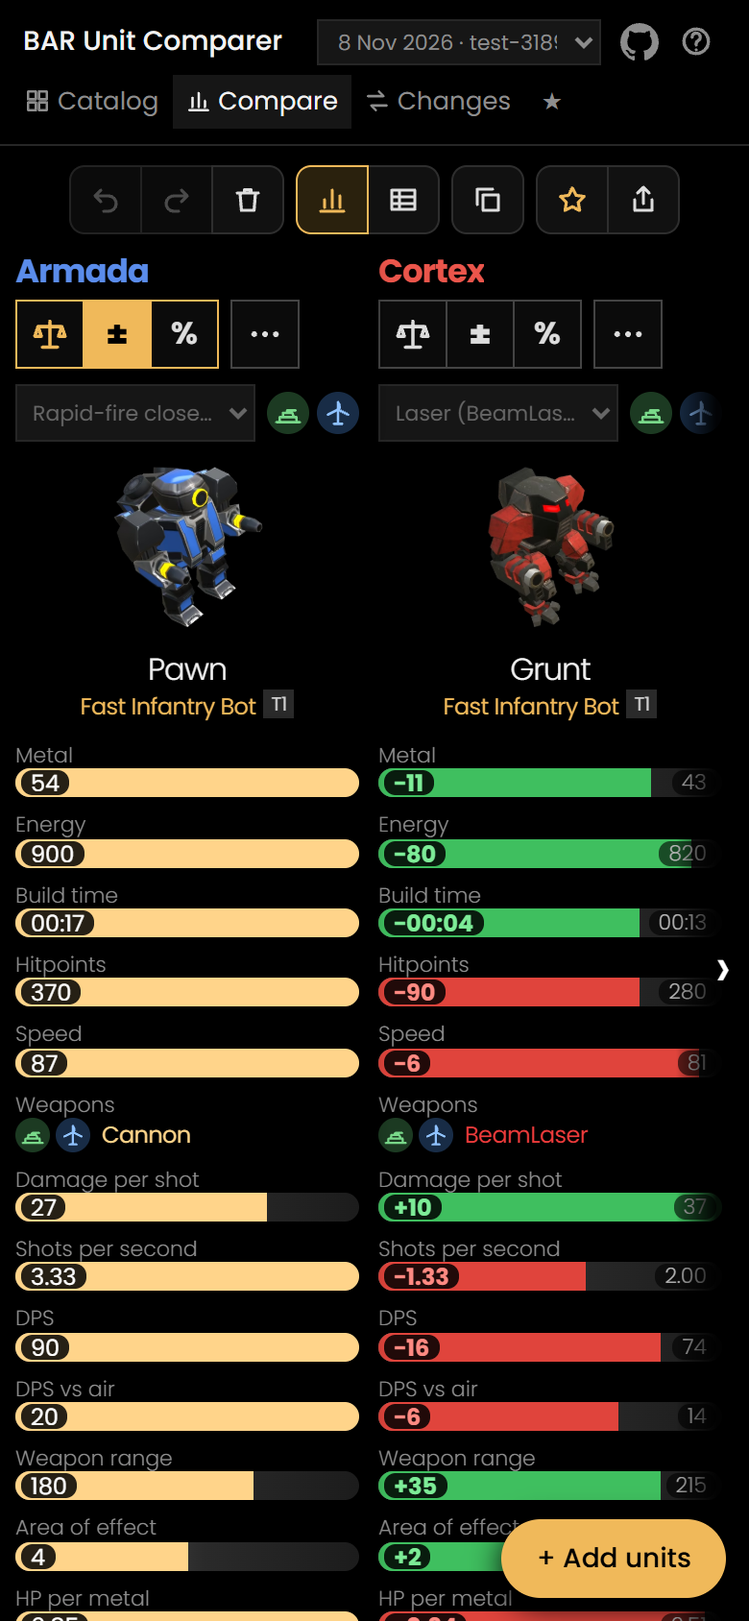
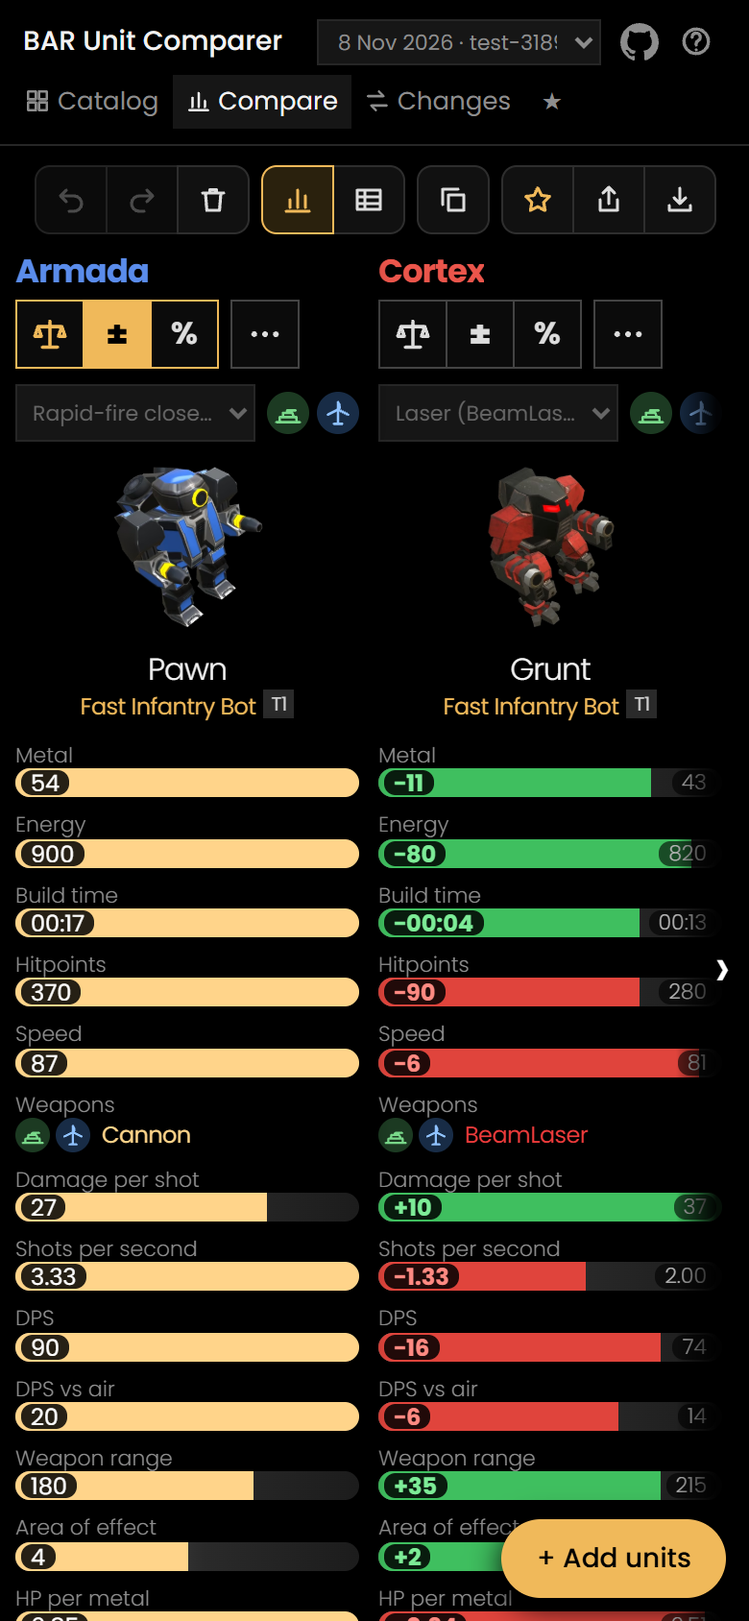
Export as CSV (in the language of the browser) or Excel; the compact table again in a wide window, two lines per value only on a phone
Export (right of Share): a dialog with CSV and Excel; the units shown with their values as in the table, numbers as numbers, with a Ref the differences
below. The CSV follows the browser language (German: 16,5 and semicolons); the .xlsx is written in the page without a library. Help, README, documents,
screenshots and the smoke test updated.

Claude-Session: https://claude.ai/code/session_01QeCYKoSgqsAqdpEWxxymXc

diff --git a/website/app.js b/website/app.js
@@ -101,6 +101,7 @@ ICONS.filter = svgIcon('M2 3h12L9.5 8.3V13l-3-1.4V8.3z');                       
 ICONS.star = svgIcon('M8 1.8l1.9 3.9 4.3.6-3.1 3 .7 4.3L8 11.6l-3.8 2 .7-4.3-3.1-3 4.3-.6z');  // a star: favorite
 ICONS.trash = svgIcon('M2.5 4.5h11M6.3 4.5V2.8h3.4v1.7M4 4.5l.7 9h6.6l.7-9');             // a bin: remove all units
 ICONS.share = svgIcon('M8 10V2M5 4.5l3-3 3 3M3.5 8v5.5h9V8');                            // an arrow out of a box: share the link
+ICONS.export = svgIcon('M8 2v8M5 7l3 3 3-3M2.5 11v2.5h11V11');                           // an arrow down into a tray: export the values as a file
 const toolButton = (kind, action, tip, on, enabled) => `<button class="tool ${kind}${on ? ' active' : ''}" data-a="${action}" title="${tip}" aria-label="${tip}" aria-pressed="${!!on}" ${enabled ? '' : 'disabled'}>${ICONS[kind]}</button>`;
 const isNarrow = () => window.innerWidth <= 900;
 const isPhone = () => window.innerWidth <= 600;   // a phone: the tools of a column are in a menu, the toolbar is one line
@@ -600,6 +601,7 @@ function renderHelp() {
       ['Undo / Redo', 'take back or repeat a change of the columns or of the game version (Ctrl+Z, Ctrl+Y; also in the catalog). The number on them: how many steps there are.'],
       ['Clear', '(right of Undo and Redo) starts again: removes all units and the Undo and Redo steps. It asks first.'],
       [`${ICONS.share} Share`, 'copies the link of the comparison, to send it to someone (on a phone: opens the share menu).'],
+      [`${ICONS.export} Export`, 'saves the units shown with their values as a file, CSV or Excel (.xlsx): one row per value, one column per unit, numbers as numbers (with a Ref also the differences to it), to work with them in a spreadsheet.'],
       ['The name of a value', 'click it (Metal, Hitpoints, ...) to sort the columns by this value, the best first; again: the worst first.'],
       ['&#8942;&#8942;', 'drag it to move a column (on a phone: Move left / Move right in the menu of the column).'],
       ['&#8249; &#8250;', '(at the edges) more columns are hidden there: a click scrolls to the next one.'],
@@ -712,7 +714,7 @@ function renderCompare() {
   renderOverlay();
 }
 
-// the buttons above the columns, in groups: history (Undo, Clear, Redo), the view (graphic or table), + Scav, keep (Favorite, Share).
+// the buttons above the columns, in groups: history (Undo, Clear, Redo), the view (graphic or table), + Scav, keep (Favorite, Share, Export).
 // Every button has an icon; on a phone only the icons are shown (one line). Changed units only is in the unit selection: it changes only that list
 function toolbarHtml() {
   const fav = currentFavorite() >= 0, any = state.columns.length ? '' : 'disabled';
@@ -730,7 +732,8 @@ function toolbarHtml() {
     ${group(view(false, ICONS.graphic, 'Graphic', 'Graphic view: pictures and bars'), view(true, ICONS.table, 'Table', 'Compact table: one row per value, one column per unit'))}
     ${group(btn('scav', ICONS.scav, '+ Scav', 'Scavengers: show the Scavenger copy of every unit right next to it (stronger: about 10 % more cost, 25 % more hitpoints). Press again to take them out.', { on: state.scav, cls: 'tg' }))}
     ${group(btn('fav-save', ICONS.star, fav ? 'Favorite' : 'Save', fav ? 'This selection is a favorite: press to remove it' : 'Save this selection of units as a favorite (list: Favorites at the top)', { on: fav, off: !!any, cls: 'fav-star tg' }),
-      btn('share', ICONS.share, 'Share', 'Share this comparison: copies its link (on a phone: the share menu)', { off: !!any, cls: 'share' }))}
+      btn('share', ICONS.share, 'Share', 'Share this comparison: copies its link (on a phone: the share menu)', { off: !!any, cls: 'share' }),
+      btn('export', ICONS.export, 'Export', 'Export the units shown with their values: a CSV or Excel file', { off: !!any }))}
     </div>`;
 }
 
@@ -962,12 +965,15 @@ function tableHtml(columns, stats, max, reference) {
     const ref = referenceFor(c, reference);
     return `<td data-col="${c.id}" class="num${rc}${verdictOf(s, v, ref)}${v === max[s.key] ? ' top' : ''}${changed}">${valueText(s, v, ref)}${absText(s, v, ref)}</td>`;
   };
-  // two lines per value: its name over the whole width (it stays at the left edge while the columns are scrolled), the values below it; the column of the names
-  // (.t-corner and the empty .t-nil of each row) has no width, so the units get the room
-  const span = columns.length + 1 + (reference ? 1 : 0);
-  const row = s => `<tr class="t-lab"><th colspan="${span}" class="${s.differs ? 'changed' : ''}" title="${esc(s.tip)}"${sortAttr(s)}><span>${s.label}${sortMark(s)}</span></th></tr>`
-    + `<tr class="t-vals"><th class="t-nil"></th>${columns.map(c => cell(s, c)).join('')}</tr>`;
-  return `<table class="cmp-table two-line"><thead><tr><th class="t-corner"></th>${columns.map(head).join('')}${reference ? '<th class="t-pad"></th>' : ''}</tr></thead>
+  // a wide window: the names of the values in a column at the left, one line per value (compact). A phone: two lines per value, its name over the whole width
+  // (it stays at the left edge while the columns are scrolled), the values below it; the column of the names (.t-corner and the empty .t-nil of each row) has
+  // no width, so the units get the room
+  const two = isPhone(), span = columns.length + 1 + (reference ? 1 : 0);
+  const row = s => two
+    ? `<tr class="t-lab"><th colspan="${span}" class="${s.differs ? 'changed' : ''}" title="${esc(s.tip)}"${sortAttr(s)}><span>${s.label}${sortMark(s)}</span></th></tr>`
+      + `<tr class="t-vals"><th class="t-nil"></th>${columns.map(c => cell(s, c)).join('')}</tr>`
+    : `<tr><th class="${s.differs ? 'changed' : ''}" title="${esc(s.tip)}"${sortAttr(s)}>${s.label}${sortMark(s)}</th>${columns.map(c => cell(s, c)).join('')}</tr>`;
+  return `<table class="cmp-table${two ? ' two-line' : ''}"><thead><tr><th class="t-corner"></th>${columns.map(head).join('')}${reference ? '<th class="t-pad"></th>' : ''}</tr></thead>
     <tbody>${stats.map(row).join('')}</tbody></table>`;
 }
 
@@ -1192,9 +1198,105 @@ function renderOverlay() {
   if (!c) state.menu = null;
   if (state.detail && !pickUnit(state.detail)) state.detail = null;
   if (state.ask && state.page !== 'compare') state.ask = null;
-  overlay.innerHTML = state.ask ? askHtml() : state.detail ? detailHtml(state.detail) : c ? menuHtml(c) : '';
-  if (state.ask) overlay.querySelector('[data-a="clear-yes"]').focus();
+  overlay.innerHTML = state.ask === 'export' ? exportHtml() : state.ask ? askHtml() : state.detail ? detailHtml(state.detail) : c ? menuHtml(c) : '';
+  if (state.ask) overlay.querySelector('[data-a="clear-yes"], [data-a="export-xlsx"]').focus();
   document.body.classList.toggle('modal', overlay.innerHTML !== '');
+}
+// Export: the units shown with their values as a file, CSV or Excel (.xlsx), laid out as the table: one row per value, one column per unit, the heads of the
+// columns in the first rows. Numbers as numbers (the build time in seconds), not as the text on the page; with a Ref the differences follow in a block below
+function exportRows() {
+  const columns = shown.length ? shown : displayColumns(), reference = columns.find(c => c.ref);
+  const stats = STATS.filter(s => columns.some(c => s.key === 'weapons' ? unitOf(c).weapons.length : unitOf(c)[s.key]));
+  const num = v => Math.round(v * 100) / 100;
+  const label = s => s.key === 'buildTime' ? 'Build time (s)' : s.label;
+  const weaponOf = c => { const list = (unitsOf(c.version || state.versionDir)[c.unit] || {}).weaponList || [], on = list.find(w => w.id === c.weapon);
+    return on ? weaponLabel(on, list) : list.length > 1 ? `All weapons (${list.length})` : list.length ? weaponLabel(list[0]) : 'No weapons'; };
+  const rows = [['Unit', ...columns.map(c => unitOf(c).name)], ['Name', ...columns.map(c => c.unit)], ['Faction', ...columns.map(c => c.scavOf ? 'Scavengers' : factionName(c.faction))],
+    ['Tier', ...columns.map(c => `T${unitOf(c).tech}`)], ['Description', ...columns.map(c => unitOf(c).description)]];
+  if (state.versions.length > 1) rows.push(['Game version', ...columns.map(c => { const v = versionOf(stateVersion(c) || c.version || state.versionDir); return v ? versionLabel(v) : ''; })]);
+  rows.push(['Weapon', ...columns.map(weaponOf)]);
+  if (reference) rows.push(['Reference', ...columns.map(c => c.ref ? 'Ref' : '')]);
+  const head = rows.length;
+  for (const s of stats) rows.push([label(s), ...columns.map(c => { const u = unitOf(c); return s.key === 'weapons' ? u.weapons.join(', ') : u[s.key] ? num(u[s.key]) : ''; })]);
+  if (reference) {   // the differences to the Ref, as the page shows them: as they are (±) or in percent (%)
+    const r = unitOf(reference);
+    rows.push([], [`Difference to ${r.name}${state.refPct ? ' (%)' : ''}`, ...columns.map(c => unitOf(c).name)]);
+    for (const s of stats) if (s.key !== 'weapons' && r[s.key]) rows.push([label(s), ...columns.map(c => { const v = unitOf(c)[s.key];
+      return c.ref || !v ? '' : state.refPct ? Math.round((v - r[s.key]) / Math.abs(r[s.key]) * 1000) / 10 : num(v - r[s.key]); })]);
+  }
+  return { rows, head, columns };
+}
+const exportName = (columns, ext) => `bar-compare-${columns.slice(0, 6).map(c => c.unit).join('-')}${columns.length > 6 ? '-more' : ''}.${ext}`;
+function download(name, blob) {
+  const a = document.createElement('a');
+  a.href = URL.createObjectURL(blob); a.download = name;
+  document.body.appendChild(a); a.click(); a.remove();
+  setTimeout(() => URL.revokeObjectURL(a.href), 1000);
+}
+// CSV in the language of the browser, as a spreadsheet there reads it: with a decimal comma (German and others) the numbers have a comma and the cells are
+// separated by semicolons, else a point and commas; no thousands separators; text in quotes where needed, UTF-8 with a BOM so that Excel reads the names right
+const decimalComma = (locale = navigator.language) => { try { return (1.5).toLocaleString(locale).includes(','); } catch { return false; } };
+function csvOf(rows, locale = navigator.language) {
+  const comma = decimalComma(locale), sep = comma ? ';' : ',', quote = new RegExp(`["${sep}\r\n]`);
+  const cell = v => typeof v === 'number' ? (comma ? String(v).replace('.', ',') : String(v)) : quote.test(v ?? '') ? `"${String(v).replace(/"/g, '""')}"` : String(v ?? '');
+  return '' + rows.map(r => r.map(cell).join(sep)).join('\r\n') + '\r\n';
+}
+// Excel: a small .xlsx written here (a zip without compression): one sheet, the first column and the heads of the columns stay in view, the names bold
+const CRC = (() => { const t = new Uint32Array(256); for (let n = 0; n < 256; n++) { let c = n; for (let k = 0; k < 8; k++) c = c & 1 ? 0xedb88320 ^ (c >>> 1) : c >>> 1; t[n] = c >>> 0; } return t; })();
+const crc32 = b => { let c = 0xffffffff; for (const x of b) c = CRC[(c ^ x) & 255] ^ (c >>> 8); return (c ^ 0xffffffff) >>> 0; };
+const putAll = (view, list) => list.forEach(([o, v, s]) => s === 4 ? view.setUint32(o, v, true) : view.setUint16(o, v, true));
+function zipOf(files) {   // [[name, text]]: a zip, stored
+  const enc = new TextEncoder(), parts = [], dir = [];
+  let at = 0;
+  for (const [name, text] of files) {
+    const n = enc.encode(name), d = enc.encode(text), crc = crc32(d);
+    const h = new DataView(new ArrayBuffer(30));
+    putAll(h, [[0, 0x04034b50, 4], [4, 20, 2], [6, 0x0800, 2], [8, 0, 2], [10, 0, 2], [12, 0x21, 2], [14, crc, 4], [18, d.length, 4], [22, d.length, 4], [26, n.length, 2], [28, 0, 2]]);
+    const c = new DataView(new ArrayBuffer(46));
+    putAll(c, [[0, 0x02014b50, 4], [4, 20, 2], [6, 20, 2], [8, 0x0800, 2], [10, 0, 2], [12, 0, 2], [14, 0x21, 2], [16, crc, 4], [20, d.length, 4], [24, d.length, 4], [28, n.length, 2],
+      [30, 0, 2], [32, 0, 2], [34, 0, 2], [36, 0, 2], [38, 0, 4], [42, at, 4]]);
+    parts.push(h, n, d); dir.push(c, n);
+    at += 30 + n.length + d.length;
+  }
+  const size = dir.reduce((a, x) => a + x.byteLength, 0), e = new DataView(new ArrayBuffer(22));
+  putAll(e, [[0, 0x06054b50, 4], [8, files.length, 2], [10, files.length, 2], [12, size, 4], [16, at, 4]]);
+  return new Blob([...parts, ...dir, e], { type: 'application/vnd.openxmlformats-officedocument.spreadsheetml.sheet' });
+}
+function xlsxOf({ rows, head }) {
+  const x = v => String(v).replace(/&/g, '&amp;').replace(/</g, '&lt;').replace(/>/g, '&gt;').replace(/"/g, '&quot;').replace(/[\u0000-\u0008\u000b\u000c\u000e-\u001f]/g, '');
+  const col = i => { let s = ''; for (i++; i; i = Math.floor((i - 1) / 26)) s = String.fromCharCode(65 + (i - 1) % 26) + s; return s; };
+  const width = Math.max(...rows.map(r => r.length));
+  const sheetRows = rows.map((r, y) => `<row r="${y + 1}">${r.map((v, i) => {
+    const ref = `${col(i)}${y + 1}`, bold = i === 0 || y < 1 ? ' s="1"' : '';
+    if (v === '' || v == null) return '';
+    return typeof v === 'number' ? `<c r="${ref}"${bold}><v>${v}</v></c>` : `<c r="${ref}" t="inlineStr"${bold}><is><t xml:space="preserve">${x(v)}</t></is></c>`;
+  }).join('')}</row>`).join('');
+  const xml = '<?xml version="1.0" encoding="UTF-8" standalone="yes"?>\n';
+  const ns = 'xmlns="http://schemas.openxmlformats.org/spreadsheetml/2006/main" xmlns:r="http://schemas.openxmlformats.org/officeDocument/2006/relationships"';
+  const rel = 'http://schemas.openxmlformats.org/officeDocument/2006/relationships', ct = 'application/vnd.openxmlformats-officedocument.spreadsheetml';
+  return zipOf([
+    ['[Content_Types].xml', `${xml}<Types xmlns="http://schemas.openxmlformats.org/package/2006/content-types"><Default Extension="rels" ContentType="application/vnd.openxmlformats-package.relationships+xml"/><Default Extension="xml" ContentType="application/xml"/>`
+      + `<Override PartName="/xl/workbook.xml" ContentType="${ct}.sheet.main+xml"/><Override PartName="/xl/worksheets/sheet1.xml" ContentType="${ct}.worksheet+xml"/>`
+      + `<Override PartName="/xl/styles.xml" ContentType="${ct}.styles+xml"/></Types>`],
+    ['_rels/.rels', `${xml}<Relationships xmlns="http://schemas.openxmlformats.org/package/2006/relationships"><Relationship Id="rId1" Type="${rel}/officeDocument" Target="xl/workbook.xml"/></Relationships>`],
+    ['xl/workbook.xml', `${xml}<workbook ${ns}><sheets><sheet name="Compare" sheetId="1" r:id="rId1"/></sheets></workbook>`],
+    ['xl/_rels/workbook.xml.rels', `${xml}<Relationships xmlns="http://schemas.openxmlformats.org/package/2006/relationships"><Relationship Id="rId1" Type="${rel}/worksheet" Target="worksheets/sheet1.xml"/>`
+      + `<Relationship Id="rId2" Type="${rel}/styles" Target="styles.xml"/></Relationships>`],
+    ['xl/styles.xml', `${xml}<styleSheet xmlns="http://schemas.openxmlformats.org/spreadsheetml/2006/main"><fonts count="2"><font><sz val="11"/><name val="Calibri"/></font><font><b/><sz val="11"/><name val="Calibri"/></font></fonts>`
+      + '<fills count="2"><fill><patternFill patternType="none"/></fill><fill><patternFill patternType="gray125"/></fill></fills><borders count="1"><border><left/><right/><top/><bottom/><diagonal/></border></borders>'
+      + '<cellStyleXfs count="1"><xf numFmtId="0" fontId="0" fillId="0" borderId="0"/></cellStyleXfs><cellXfs count="2"><xf numFmtId="0" fontId="0" fillId="0" borderId="0" xfId="0"/><xf numFmtId="0" fontId="1" fillId="0" borderId="0" xfId="0" applyFont="1"/></cellXfs><cellStyles count="1"><cellStyle name="Normal" xfId="0" builtinId="0"/></cellStyles></styleSheet>'],
+    ['xl/worksheets/sheet1.xml', `${xml}<worksheet ${ns}><sheetViews><sheetView workbookViewId="0"><pane xSplit="1" ySplit="${head}" topLeftCell="B${head + 1}" activePane="bottomRight" state="frozen"/></sheetView></sheetViews>`
+      + `<cols><col min="1" max="1" width="24" customWidth="1"/>${width > 1 ? `<col min="2" max="${width}" width="22" customWidth="1"/>` : ''}</cols><sheetData>${sheetRows}</sheetData></worksheet>`],
+  ]);
+}
+// the dialog of Export: what is in the file, then CSV or Excel
+function exportHtml() {
+  const { columns } = exportRows();
+  const ref = columns.find(c => c.ref);
+  return `<div class="sheet-back" data-a="overlay-close"></div><div class="detail ask" role="dialog" aria-label="Export">
+    <h3>Export</h3>
+    <p>The ${columns.length} unit${columns.length === 1 ? '' : 's'} shown, with their values as in the table: one row per value, one column per unit${ref ? `, and below the differences to ${esc(unitOf(ref).name)}${state.refPct ? ' in percent' : ''}` : ''}. Numbers as numbers (build time in seconds), to work with them in a spreadsheet. The CSV follows the language of your browser (${esc(navigator.language)}: ${decimalComma() ? 'decimal comma, separated by semicolons' : 'decimal point, separated by commas'}).</p>
+    <div class="d-actions"><button class="btn" data-a="overlay-close">Cancel</button><button class="btn" data-a="export-csv">${ICONS.export} CSV</button><button class="btn go" data-a="export-xlsx" title="An Excel file (.xlsx)">${ICONS.export} Excel</button></div></div>`;
 }
 // Clear asks first: all units and the Undo and Redo steps go, it cannot be taken back
 function askHtml() {
@@ -1320,7 +1422,10 @@ const actions = {
     renderCompare();
   },
   move(v, el) { moveColumn(columnOf(el), Number(v)); },
-  'clear-all'() { state.ask = 'clear'; renderOverlay(); },   // asks first (askHtml): it cannot be taken back
+  'clear-all'() { state.ask = 'clear'; renderOverlay(); },
+  export() { state.ask = 'export'; renderOverlay(); },
+  'export-csv'() { const e = exportRows(); download(exportName(e.columns, 'csv'), new Blob([csvOf(e.rows)], { type: 'text/csv;charset=utf-8' })); state.ask = null; renderOverlay(); },
+  'export-xlsx'() { const e = exportRows(); download(exportName(e.columns, 'xlsx'), xlsxOf(e)); state.ask = null; renderOverlay(); },   // asks first (askHtml): it cannot be taken back
   'clear-yes'() {   // start again: no units, no Undo and Redo steps
     state.ask = null; state.sort = null; state.columns = []; undoStack.length = 0; redoStack.length = 0;
     keepAddress(); render(); renderOverlay();

diff --git a/website/style.css b/website/style.css
@@ -542,10 +542,9 @@ body.modal { overflow: hidden; }
 .cmp-table thead th.t-pad { min-width: 0; padding: 0; border: 0; }   /* its width: updateMore */
 /* the table: the name of a value in a line of its own over the whole width, the values in the line below; no column of names */
 .cmp-table.two-line .t-corner, .cmp-table.two-line .t-nil { width: 0; min-width: 0; padding: 0; border: 0; }
-.cmp-table.two-line tr.t-lab th { position: static; padding: 7px 0 0; border-bottom: 0; font-size: 13px; text-align: left; background: none; }
+.cmp-table.two-line tr.t-lab th { position: static; padding: 7px 0 0; border-bottom: 0; font-size: 12px; text-align: left; background: none; }
 .cmp-table.two-line tr.t-lab th span { position: sticky; left: var(--lab, 8px); }   /* --lab: updateMore */
 .cmp-table.two-line tr.t-vals td { padding-top: 1px; }
-@media (max-width: 600px) { .cmp-table.two-line tr.t-lab th { font-size: 12px; } }
 
 /* ------------------------------------------------ Changes: the buttons above the list, and one column per faction (a unit and its counterparts in one row) */
 .changes { max-width: 1800px; }

diff --git a/docs/website.md b/docs/website.md
@@ -91,11 +91,11 @@ As on the pictures: Armada blue (90, 140, 235), Cortex red (235, 85, 75), Legion
 
 **Layout:** the toolbar (`toolbarHtml`), the columns, at the right the unit selection (it can be folded away; remembered). Columns and selection fill the window: the pictures shrink (60 to 300 px) so that the page needs no scrollbar. Without units the page says what to do and offers examples (`emptyCompareHtml`).
 
-**The toolbar,** groups of buttons with icons (`ICONS`), a lit button is on: **Undo** / **Redo** / **Clear** (a gold badge with the number of steps; no step: no badge; **Clear** asks first, `askHtml`, then removes all units and the Undo and Redo steps) · **Graphic / Table** · **+ Scav** · **Save** (star, filled for a favorite) / **Share**. A button that cannot be used now is grey. On a phone only the icons, in one line.
+**The toolbar,** groups of buttons with icons (`ICONS`), a lit button is on: **Undo** / **Redo** / **Clear** (a gold badge with the number of steps; no step: no badge; **Clear** asks first, `askHtml`, then removes all units and the Undo and Redo steps) · **Graphic / Table** · **+ Scav** · **Save** (star, filled for a favorite) / **Share** / **Export**. A button that cannot be used now is grey. On a phone only the icons, in one line.
 
 **Graphic view:** a column is a unit: faction, the list of its versions, its tools, picture, name, description, tech level, counterparts, then the values as bars, scaled to the largest value of the row; a row is shown only if a unit has the value. Two units look like more: no mirrored pair. Each label has a tooltip (`tip` in `STATS`). Columns are 360 px wide at least, a little narrower (down to 280 px) when that saves a few pixels of scrolling (`fitColumns`); arrows at the edges show hidden columns and scroll to the next one.
 
-**Table view:** one column per unit, two lines per value (`table.two-line`): its name in a line of its own over the whole width (`tr.t-lab`, a click sorts), the values in the line below (`tr.t-vals`), the largest value bold. There is no column of names (`.t-corner` and `.t-nil` have no width), so the units get the room. The name stays at the left edge while the columns are scrolled (sticky; `--lab`, set in `updateMore`: right of the strip of a Ref and of the arrow at the left). The view is remembered in the browser.
+**Table view:** one row per value, one column per unit, the largest value bold, the row names stay at the left. On a phone (`isPhone()`) two lines per value instead (`table.two-line`): its name in a line of its own over the whole width (`tr.t-lab`, a click sorts), the values in the line below (`tr.t-vals`). There is no column of names (`.t-corner` and `.t-nil` have no width), so the units get the room. The name stays at the left edge while the columns are scrolled (sticky; `--lab`, set in `updateMore`: right of the strip of a Ref and of the arrow at the left). The view is remembered in the browser.
 
 **The versions of a column:** below the faction the list of the versions of its unit (`versionSelect`: the first version and each one in which its values changed, by date, "29 May 2026 · test-30236"; white if there are several, grey with one), right of it **Versions** (a clock with the number of versions; it adds the others as columns, see below).
 
@@ -115,6 +115,7 @@ As on the pictures: Armada blue (90, 140, 235), Cortex red (235, 85, 75), Legion
 - **Undo / Redo** (Ctrl+Z / Ctrl+Y, also in the catalog): every change of the columns, their order and the game versions, up to 100 steps. Ref, + Scav and the view are not steps.
 - **Save:** a favorite holds the units, + Scav and the Ref with its kind, ± or % (`localStorage`, `barunit.favorites`); **Favorites** in the header lists them (load, delete); each entry is a link (`favLink`): the middle mouse button or Ctrl+click opens it in a new tab.
 - **Share:** copies the link and says so; on a touch device it opens the share menu (`navigator.share`).
+- **Export:** a dialog (`state.ask = 'export'`, `exportHtml`) with **CSV** and **Excel**; the file is made in the browser and downloaded (`download`), named `bar-compare-<units>.csv|xlsx`. `exportRows` lays it out as the table: the columns shown (`shown`, in their order, with + Scav), the first rows Unit, Name, Faction, Tier, Description, Game version, Weapon (and Reference), then one row per value of the page (`STATS`, only those a unit has); numbers as numbers, rounded to two places, the build time in seconds. With a Ref a block below holds the differences to it, as they are or in percent (`state.refPct`). CSV (`csvOf`): in the language of the browser (`navigator.language`): a language with a decimal comma (German) gets 16,5 and semicolons, else 16.5 and commas; no thousands separators, UTF-8 with a BOM. Excel: a small .xlsx written without a library (`xlsxOf`, `zipOf`: a zip without compression, CRC-32): one sheet, the names bold, the first column and the head rows frozen.
 - **Sorting:** a click on the name of a value orders the columns by it, the best first, again: the other way round (`state.sort`, an Undo step).
 
 **The weapon filter** (`weaponFilterHtml`, right of Changed units only): every weapon of the units of the version shown, by name (`weaponKey`), alphabetical, with the number of units that have it (`allWeapons`; Scavenger copies not counted); a weapon chosen lists only the units that have it, alone or among their weapons, of all factions and kinds (like the search; tech levels and search still apply; a faction or kind pressed ends it).
@@ -130,7 +131,7 @@ As on the pictures: Armada blue (90, 140, 235), Cortex red (235, 85, 75), Legion
 **The reference strip** (all widths): the class `scrolled` on `.cmp-scroll` is set in `updateMore` (24 px after the column sticks, off below 4 px; `refStuckAt`).
 
 - Graphic view: the column gets narrower with every pixel scrolled (`--refw`, down to 88 px, 76 px on a phone), so the next column stays beside it.
-- Table view: the first column (`.ref-col`, 64 / 56 px; `--lw`, 0 now that the names stand in lines of their own). An empty cell behind the last column (`.t-pad`, sized in `updateMore`) takes the width the strip gives up, so the scrolled area keeps its width (a width that changed while the bar was dragged made the columns jump to and fro), and on a narrow window gives the room to bring the last column beside the strip.
+- Table view: the column next to the row names (`.ref-col`, 64 / 56 px; `--lw`; 0 on a phone, where the names stand in lines of their own). An empty cell behind the last column (`.t-pad`, sized in `updateMore`) takes the width the strip gives up, so the scrolled area keeps its width (a width that changed while the bar was dragged made the columns jump to and fro), and on a narrow window gives the room to bring the last column beside the strip.
 - On a touch device (class `touch` on the page: coarse pointer or first touch) a swipe ends with a column beside the strip (`scroll-snap`, `snapTable`); not with the mouse, where it pulled the columns back while the bar was dragged.
 
 **The names stay in view** (`updatePin`): scrolled down so far that the names are gone, a line at the top shows a small picture and the name above each column.
@@ -152,7 +153,7 @@ As on the pictures: Armada blue (90, 140, 235), Cortex red (235, 85, 75), Legion
 `isNarrow()`: up to 900 px, `isPhone()`: up to 600 px; the rules at the end of `style.css`. The page is never wider than the screen.
 
 - **Up to 900 px:** the unit selection comes up from the bottom edge with **+ Add units** (**Done** closes it); a column is moved with two arrow buttons instead of the grip; the pictures are 200 px and the page scrolls.
-- **Up to 600 px:** two columns on the screen; the header without the word Favorites; the name of a value above its bar; the toolbar as icons in one line; the head of a column in one line: faction, the **Ref** block and a menu (three dots, 36 px; the menu has ± and % as two entries); pictures 104 px (72 px in a window up to 500 px high); the table as everywhere with the name of a value above its values.
+- **Up to 600 px:** two columns on the screen; the header without the word Favorites; the name of a value above its bar; the toolbar as icons in one line; the head of a column in one line: faction, the **Ref** block and a menu (three dots, 36 px; the menu has ± and % as two entries); pictures 104 px (72 px in a window up to 500 px high); the table with the name of a value in a line above its values.
 - **The menu of a column** (`menuHtml`): a sheet from the bottom with one entry per tool, each with a line that says what it does: reference, all values, versions, counterparts, counters, move, the game version, remove.
 - **Catalog:** three units per row, the categories in one row to swipe; **Changes:** one column, the selects as wide as the screen; **Header:** two lines.
 
@@ -173,7 +174,7 @@ The server listens on `127.0.0.1` only. It keeps its connections open (HTTP/1.1:
   - `tests/test_data.py`: the rules and the data files (versions, reduced file, chain of diffs, history, pictures with lower case names, counterparts, counters).
   - `tests/test_chain.py`, `tests/test_year.py`: the chain of `reduce_units.py` on made-up exports; the versions of the year (Git, engines, the plan of `update_versions.py`).
   - `tests/test_tools.py`: helpers.
-  - `tests/website_smoke.mjs`: the page in a headless Edge or Chrome: catalog, the choice of units, the unit card, compare (all buttons, Ref, the strip, sorting, Share, steady scrolling), the link, favorites, game versions, Changes (range, Older / Newer, columns, filters), Help, a phone (390 px), and no script error and no missing file.
+  - `tests/website_smoke.mjs`: the page in a headless Edge or Chrome: catalog, the choice of units, the unit card, compare (all buttons, Ref, the strip, sorting, Share, Export, steady scrolling), the link, favorites, game versions, Changes (range, Older / Newer, columns, filters), Help, a phone (390 px), and no script error and no missing file.
   - `python tests/make_chain_site.py <folder>` makes a copy of the site with a made-up chain of versions (a gone unit, an engine change); the tests run on it with `BARUNIT_ASSETS=<folder>/assets`, `BARUNIT_SITE=<folder>`.
   - Locally: `python -m unittest discover -s tests` and `node tests/website_smoke.mjs` (after `npm install` in `render_unit/`; own port).
 - The workflow leaves out what the page does not read (the full `units-<version>.json`, `serve.py`, `serve.bat`): about 28 MB, 2100 files. All file names are lower case (Pages is case sensitive).

diff --git a/README.md b/README.md
@@ -41,9 +41,10 @@ A lit icon pressed again takes back what it added. Drag a column by its grip to 
 | At the top | |
 |---|---|
 | **Undo / Redo / Clear** | take back or repeat a change (also Ctrl+Z / Ctrl+Y; the badge says how many steps there are); Clear starts again (it asks first) |
-| **Graphic / Table** | bars with pictures, or a compact table (the name of a value in a line above its values, so the units get the whole width) |
+| **Graphic / Table** | bars with pictures, or a compact table (on a phone the name of a value in a line above its values, so the units get the whole width) |
 | **+ Scav** | the Scavenger copy of every unit next to it |
 | **Save / Share** | keep the selection as a favorite, or share its link (the link holds the units with their versions and weapons, the view, + Scav and the Ref with ± or %). **Favorites** in the header lists them; the middle mouse button opens one in a new tab |
+| **Export** | download the units shown with their values as **CSV** (in the language of the browser: German with 16,5 and semicolons) or **Excel** (.xlsx): one row per value, one column per unit, the name, faction, tier, game version and weapon at the top, numbers as numbers (build time in seconds); with a Ref also the differences to it (± or %) in a block below |
 
 Click the name of a value (Metal, Hitpoints, ...) to sort the columns by it. Besides cost, hitpoints, speed and range the page shows **damage per shot**, **shots per second**, **DPS**, **DPS vs air** and the **area of effect**, and **HP per metal** and **DPS per metal**. The **game version** at the top shows the units as they were in an older patch; it always starts at the newest, and an older one is gold so that it is seen.
 
